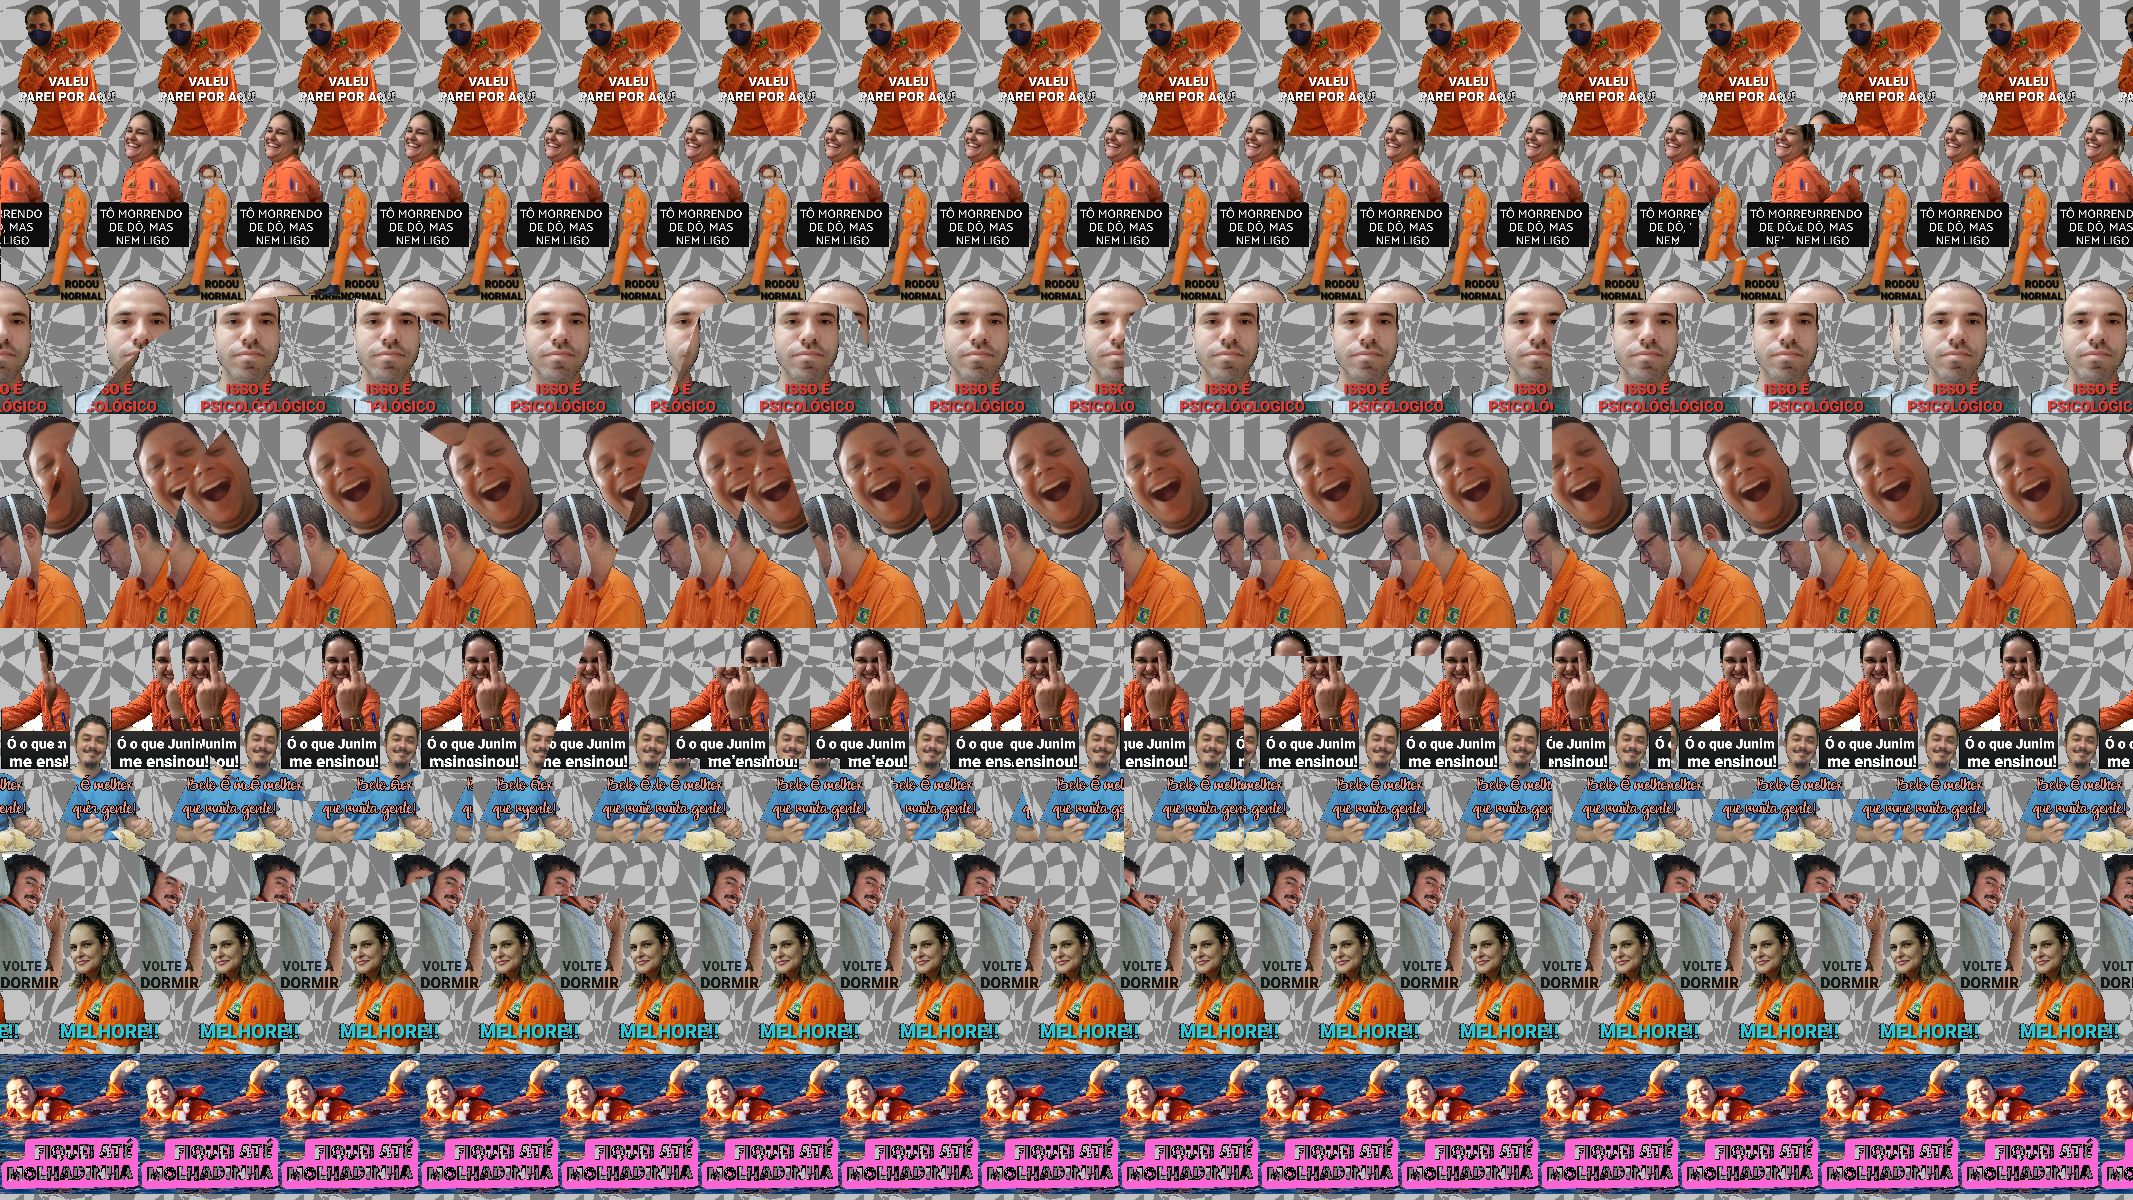
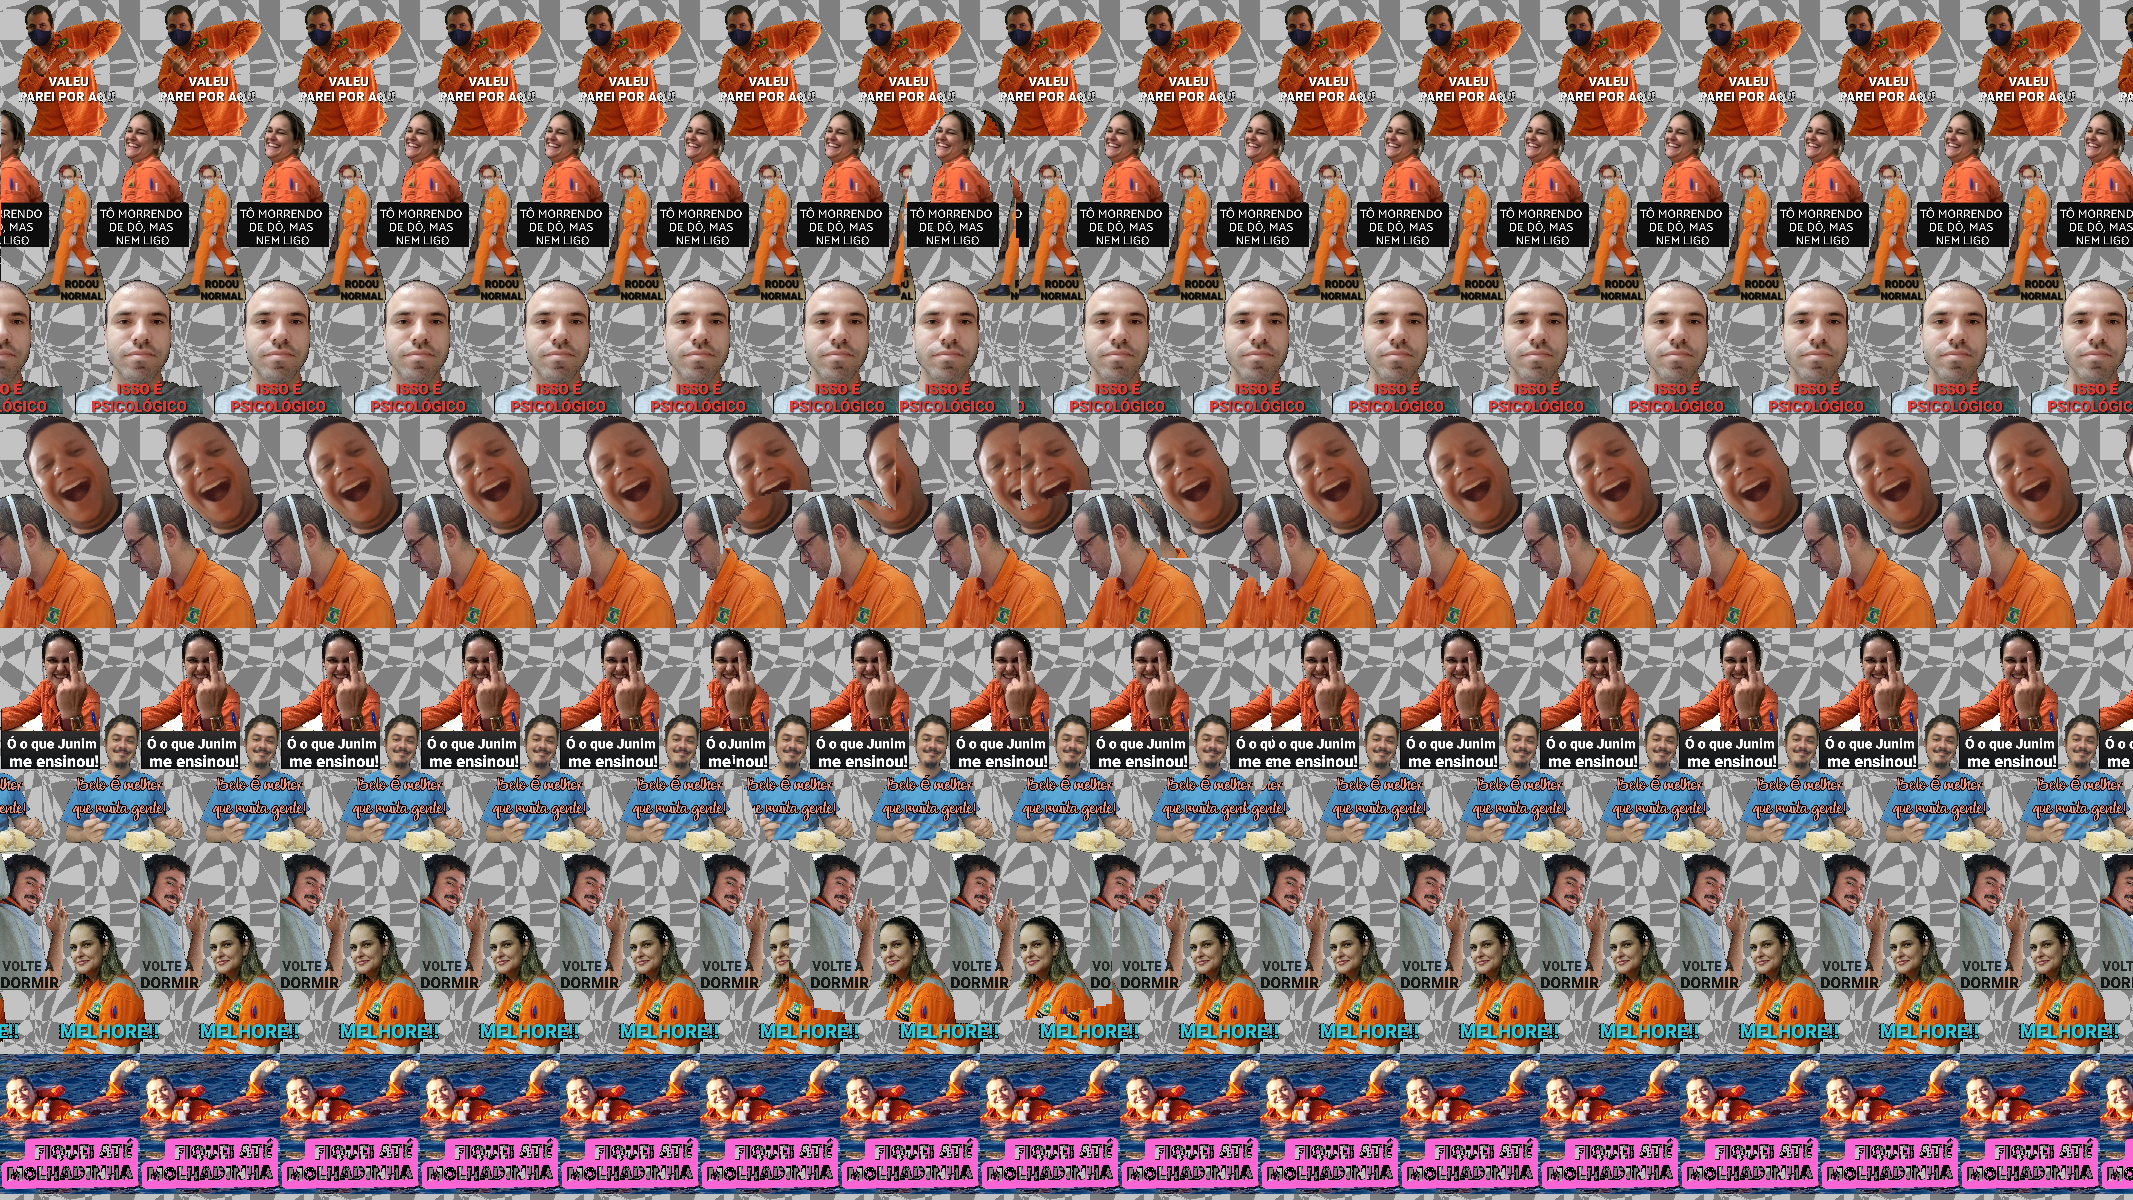
fixed argv

Changed region(s): [[0.0, 0.0925, 0.6807, 0.8633], [0.7117, 0.2467, 0.8973, 0.7708], [0.7736, 0.0925, 0.8973, 0.2158]]

diff --git a/stereogram.py b/stereogram.py
@@ -18,6 +18,7 @@ def main(argv):
     
     final = cv.imread(argv[0])
 
+    force = None #anti pattern?
     for arg in argv[3:]:
         if arg[:3] == '-f=':
             try:
@@ -34,7 +35,7 @@ def main(argv):
                 if force is None:
                     final[i][j] = fore[i][j+depthmap[i][j]]
                 else:
-                    final[i][j]~= fore[i][j+force]
+                    final[i][j] = fore[i][j+force]
 
             
     cv.imshow("Foreground", fore)
@@ -42,8 +43,8 @@ def main(argv):
 
     k = cv.waitKey(0)
     if k == ord("s"):
-        cv.imwrite("./final2.png", final)
-        print(f"saving")
+        cv.imwrite(arv[2], final)
+        print(f"saving {argv[2]}")
 
 if __name__ == '__main__':
     print(sys.argv)
